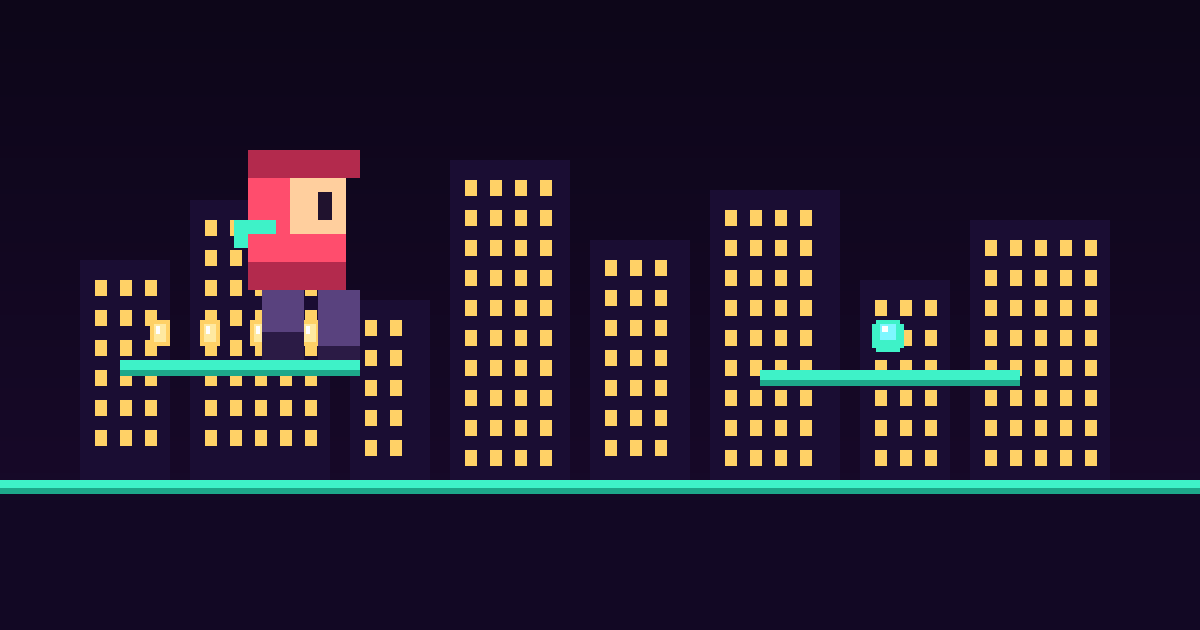
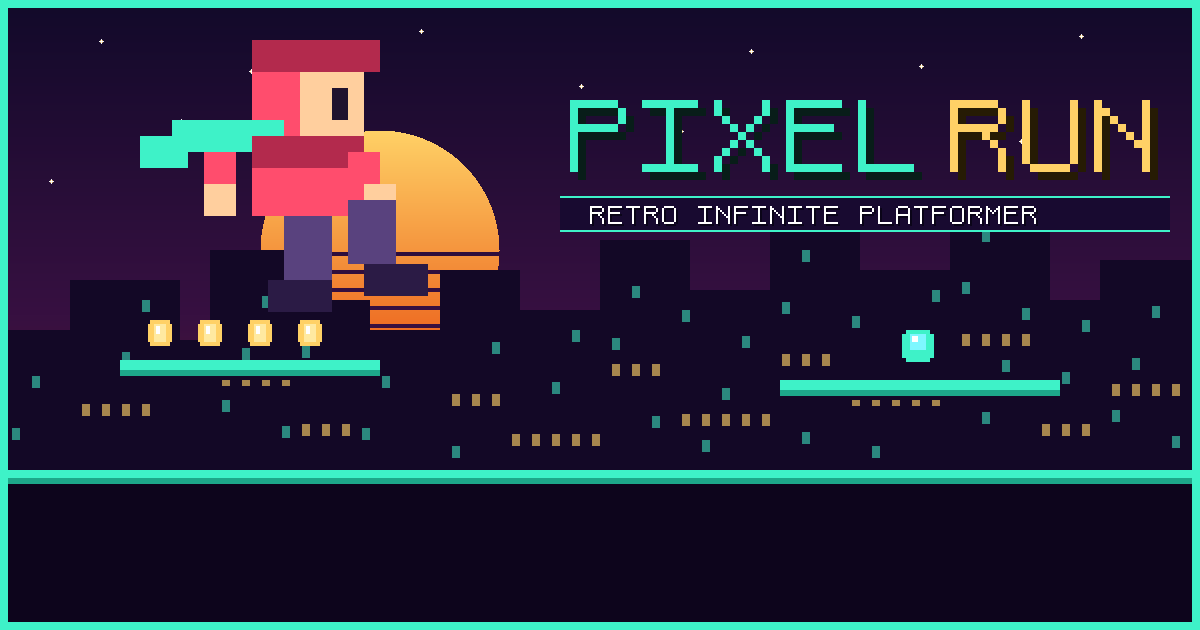
Restore text preview and Discord gem reward

diff --git a/scripts/generate_assets.js b/scripts/generate_assets.js
@@ -156,95 +156,212 @@ function generatePreviewCard() {
     buf[idx + 3] = a;
   }
 
-  function fillRect(x, y, w, h, hex) {
-    const [r, g, b, a] = hexToRgba(hex);
+  function fillRect(x, y, w, h, hex, alpha = 255) {
+    const [r, g, b] = hexToRgba(hex);
     for (let py = Math.floor(y); py < Math.floor(y + h); py++) {
       for (let px = Math.floor(x); px < Math.floor(x + w); px++) {
-        setPixel(px, py, r, g, b, a);
+        if (alpha >= 255) {
+          setPixel(px, py, r, g, b, 255);
+        } else if (px >= 0 && px < W && py >= 0 && py < H) {
+          const idx = (py * W + px) * 4;
+          const blend = alpha / 255;
+          buf[idx] = Math.round(buf[idx] * (1 - blend) + r * blend);
+          buf[idx + 1] = Math.round(buf[idx + 1] * (1 - blend) + g * blend);
+          buf[idx + 2] = Math.round(buf[idx + 2] * (1 - blend) + b * blend);
+          buf[idx + 3] = 255;
+        }
       }
     }
   }
 
-  // Background gradient
+  // Synthwave sunset sky gradient
   for (let y = 0; y < H; y++) {
     const t = y / H;
-    const r = Math.floor(13 + (26 - 13) * t);
-    const g = Math.floor(6 + (10 - 6) * t);
-    const b = Math.floor(25 + (45 - 25) * t);
+    let r;
+    let g;
+    let b;
+    if (t < 0.5) {
+      const st = t / 0.5;
+      r = Math.floor(18 + (55 - 18) * st);
+      g = Math.floor(10 + (16 - 10) * st);
+      b = Math.floor(42 + (65 - 42) * st);
+    } else {
+      const st = (t - 0.5) / 0.5;
+      r = Math.floor(55 + (180 - 55) * st * 0.5);
+      g = Math.floor(16 + (60 - 16) * st * 0.4);
+      b = Math.floor(65 + (35 - 65) * st);
+    }
     for (let x = 0; x < W; x++) {
       setPixel(x, y, r, g, b, 255);
     }
   }
 
-  // Skyline
-  const buildings = [
-    { x: 80,  w: 90,  h: 220 },
-    { x: 190, w: 140, h: 280 },
-    { x: 350, w: 80,  h: 180 },
-    { x: 450, w: 120, h: 320 },
-    { x: 590, w: 100, h: 240 },
-    { x: 710, w: 130, h: 290 },
-    { x: 860, w: 90,  h: 200 },
-    { x: 970, w: 140, h: 260 },
+  // Distant stars
+  const stars = [
+    [100, 40], [250, 70], [420, 30], [580, 85], [750, 50], [920, 65], [1080, 35],
+    [180, 120], [340, 150], [680, 130], [840, 110], [1020, 140], [50, 180],
   ];
+  stars.forEach(([sx, sy]) => {
+    fillRect(sx, sy, 3, 3, '#ffd166', 200);
+    fillRect(sx + 1, sy - 1, 1, 5, '#ffffff', 240);
+    fillRect(sx - 1, sy + 1, 5, 1, '#ffffff', 240);
+  });
+
+  // Segmented synthwave sun
+  const sunX = 380;
+  const sunY = 250;
+  const sunR = 120;
+  for (let dy = -sunR; dy <= sunR; dy++) {
+    const py = sunY + dy;
+    if (py < 0 || py >= H) continue;
+    const dxMax = Math.floor(Math.sqrt(sunR * sunR - dy * dy));
+    const stripe = (dy + sunR) % 18;
+    if (stripe > 13 && dy > 0) continue;
+    const sunT = (dy + sunR) / (2 * sunR);
+    const sr = Math.floor(255 - sunT * 20);
+    const sg = Math.floor(209 - sunT * 120);
+    const sb = Math.floor(102 - sunT * 80);
+    const hex = `#${sr.toString(16).padStart(2, '0')}${sg.toString(16).padStart(2, '0')}${sb.toString(16).padStart(2, '0')}`;
+    fillRect(sunX - dxMax, py, dxMax * 2, 1, hex);
+  }
+
+  // Skyline silhouette
+  const buildings = [
+    { x: 0, w: 90, h: 140 },
+    { x: 70, w: 110, h: 190 },
+    { x: 160, w: 70, h: 130 },
+    { x: 210, w: 90, h: 220 },
+    { x: 290, w: 80, h: 170 },
+    { x: 350, w: 100, h: 140 },
+    { x: 440, w: 80, h: 200 },
+    { x: 500, w: 120, h: 160 },
+    { x: 600, w: 90, h: 230 },
+    { x: 670, w: 110, h: 180 },
+    { x: 770, w: 90, h: 240 },
+    { x: 840, w: 130, h: 200 },
+    { x: 950, w: 100, h: 260 },
+    { x: 1030, w: 90, h: 170 },
+    { x: 1100, w: 100, h: 210 },
+  ];
+  const horizonY = 470;
   buildings.forEach((b) => {
-    fillRect(b.x, 480 - b.h, b.w, b.h, '#1a0d33');
-    for (let wy = 480 - b.h + 20; wy < 460; wy += 30) {
-      for (let wx = b.x + 15; wx < b.x + b.w - 15; wx += 25) {
-        if ((wx + wy) % 5 === 0) {
-          fillRect(wx, wy, 12, 16, '#ffd166');
-        }
+    fillRect(b.x, horizonY - b.h, b.w, b.h, '#130826');
+    for (let wy = horizonY - b.h + 20; wy < horizonY - 20; wy += 26) {
+      for (let wx = b.x + 12; wx < b.x + b.w - 12; wx += 20) {
+        if ((wx * 3 + wy) % 5 === 0) fillRect(wx, wy, 8, 12, '#ffd166', 160);
+        else if ((wx + wy * 2) % 7 === 0) fillRect(wx, wy, 8, 12, '#3ef2c8', 140);
       }
     }
   });
 
-  // Ground Platform Layer (clean in-game platform)
-  fillRect(0, 480, W, 150, '#120824');
-  fillRect(0, 480, W, 8, '#3ef2c8');
-  fillRect(0, 488, W, 6, '#1da88a');
+  // Ground platform and floating islands
+  fillRect(0, horizonY, W, H - horizonY, '#0d051c');
+  fillRect(0, horizonY, W, 8, '#3ef2c8');
+  fillRect(0, horizonY + 8, W, 6, '#1da88a');
 
   // Floating platform left
-  fillRect(120, 360, 240, 10, '#3ef2c8');
-  fillRect(120, 370, 240, 6, '#1da88a');
+  fillRect(120, 360, 260, 10, '#3ef2c8');
+  fillRect(120, 370, 260, 6, '#1da88a');
+  fillRect(120, 376, 260, 4, '#130826');
 
   // Floating platform right
-  fillRect(760, 370, 260, 10, '#3ef2c8');
-  fillRect(760, 380, 260, 6, '#1da88a');
+  fillRect(780, 380, 280, 10, '#3ef2c8');
+  fillRect(780, 390, 280, 6, '#1da88a');
+  fillRect(780, 396, 280, 4, '#130826');
 
-  // Coins
+  // Glowing gold coins on the left platform
   [160, 210, 260, 310].forEach((cx) => {
     fillRect(cx - 10, 320, 20, 26, '#ffd166');
+    fillRect(cx - 12, 324, 24, 18, '#ffd166');
     fillRect(cx - 6, 324, 12, 18, '#ffe9a0');
     fillRect(cx - 4, 326, 4, 8, '#ffffff');
   });
 
-  // Gem
-  const gx = 880, gy = 320;
+  // Gem on the right platform
+  const gx = 910;
+  const gy = 330;
   fillRect(gx - 8, gy + 4, 32, 24, '#3ef2c8');
   fillRect(gx - 4, gy, 24, 32, '#3ef2c8');
   fillRect(gx, gy + 4, 16, 16, '#7ef7ff');
   fillRect(gx + 2, gy + 6, 6, 6, '#ffffff');
 
-  // Draw in-game Bob on the platform (exact in-game sprite, NO outlines)
-  const bobScale = 14;
+  // Bob running in heroic stride
+  const bobScale = 16;
   const bobX = 220;
-  const bobY = 360 - 15 * bobScale;
+  const bobY = 360 - 20 * bobScale;
 
-  function f(x, y, w, h, hex) {
-    fillRect(bobX + x * bobScale, bobY + y * bobScale, w * bobScale, h * bobScale, hex);
+  function bfill(x, y, w, h, col) {
+    fillRect(bobX + x * bobScale, bobY + y * bobScale, w * bobScale, h * bobScale, col);
   }
 
-  f(2, 0, 7, 6, '#ff4d6d');   // SUIT
-  f(2, 0, 8, 2, '#b32a4d');   // SUIT_D
-  f(5, 2, 4, 4, '#ffcf9e');   // Peach face
-  f(7, 3, 1, 2, '#20122e');   // Eye
-  f(1, 5, 3, 2, '#3ef2c8');   // Scarf
-  f(2, 6, 7, 4, '#ff4d6d');   // Torso
-  f(2, 8, 7, 2, '#b32a4d');   // Lower torso
-  f(3, 10, 3, 3, '#59427e');  // Left leg
-  f(3, 13, 3, 2, '#2b1b45');  // Left boot
-  f(7, 10, 3, 4, '#59427e');  // Right leg
-  f(7, 14, 3, 1, '#2b1b45');  // Right boot
+  bfill(2, 0, 7, 6, '#ff4d6d');
+  bfill(5, 2, 4, 4, '#ffcf9e');
+  bfill(2, 0, 8, 2, '#b32a4d');
+  bfill(7, 3, 1, 2, '#20122e');
+  bfill(-3, 5, 4, 2, '#3ef2c8');
+  bfill(-5, 6, 3, 2, '#3ef2c8');
+  bfill(1, 5, 3, 2, '#3ef2c8');
+  bfill(2, 6, 7, 5, '#ff4d6d');
+  bfill(2, 6, 7, 2, '#b32a4d');
+  bfill(8, 7, 2, 3, '#ff4d6d');
+  bfill(9, 9, 2, 2, '#ffcf9e');
+  bfill(-1, 7, 2, 3, '#ff4d6d');
+  bfill(-1, 9, 2, 2, '#ffcf9e');
+  bfill(4, 11, 3, 4, '#59427e');
+  bfill(3, 15, 4, 2, '#2b1b45');
+  bfill(8, 10, 3, 4, '#59427e');
+  bfill(9, 14, 4, 2, '#2b1b45');
+
+  // PIXEL RUN arcade title logo
+  const font7x9 = {
+    P: ['1111110', '1000001', '1000001', '1111110', '1000000', '1000000', '1000000', '1000000', '1000000'],
+    I: ['1111111', '0001000', '0001000', '0001000', '0001000', '0001000', '0001000', '0001000', '1111111'],
+    X: ['1000001', '1000001', '0100010', '0010100', '0001000', '0010100', '0100010', '1000001', '1000001'],
+    E: ['1111111', '1000000', '1000000', '1111110', '1000000', '1000000', '1000000', '1000000', '1111111'],
+    L: ['1000000', '1000000', '1000000', '1000000', '1000000', '1000000', '1000000', '1000000', '1111111'],
+    T: ['1111111', '0001000', '0001000', '0001000', '0001000', '0001000', '0001000', '0001000', '0001000'],
+    O: ['0111110', '1000001', '1000001', '1000001', '1000001', '1000001', '1000001', '1000001', '0111110'],
+    F: ['1111111', '1000000', '1000000', '1111110', '1000000', '1000000', '1000000', '1000000', '1000000'],
+    A: ['0111110', '1000001', '1000001', '1000001', '1111111', '1000001', '1000001', '1000001', '1000001'],
+    M: ['1000001', '1100011', '1010101', '1001001', '1000001', '1000001', '1000001', '1000001', '1000001'],
+    R: ['1111110', '1000001', '1000001', '1111110', '1000100', '1000010', '1000001', '1000001', '1000001'],
+    U: ['1000001', '1000001', '1000001', '1000001', '1000001', '1000001', '1000001', '1000001', '0111110'],
+    N: ['1000001', '1100001', '1010001', '1001001', '1000101', '1000011', '1000001', '1000001', '1000001'],
+    ' ': ['0000000', '0000000', '0000000', '0000000', '0000000', '0000000', '0000000', '0000000', '0000000'],
+  };
+
+  function drawGlyph(ch, gx, gy, sc, color) {
+    const rows = font7x9[ch] || font7x9[' '];
+    rows.forEach((row, r) => {
+      for (let c = 0; c < row.length; c++) {
+        if (row[c] === '1') fillRect(gx + c * sc, gy + r * sc, sc, sc, color);
+      }
+    });
+  }
+
+  function drawWord(text, wx, wy, sc, color, shadowCol) {
+    const gw = 7 * sc + 2 * sc;
+    if (shadowCol) text.split('').forEach((ch, i) => drawGlyph(ch, wx + i * gw + sc, wy + sc, sc, shadowCol));
+    text.split('').forEach((ch, i) => drawGlyph(ch, wx + i * gw, wy, sc, color));
+  }
+
+  const titleScale = 8;
+  const titleX = 570;
+  const titleY = 100;
+  drawWord('PIXEL', titleX, titleY, titleScale, '#3ef2c8', '#081d19');
+  drawWord('RUN', titleX + (5 * 9 * titleScale + 20), titleY, titleScale, '#ffd166', '#261b04');
+
+  const subY = titleY + 9 * titleScale + 30;
+  fillRect(titleX - 10, subY - 6, 610, 36, '#180a30');
+  fillRect(titleX - 10, subY - 6, 610, 2, '#3ef2c8');
+  fillRect(titleX - 10, subY + 28, 610, 2, '#3ef2c8');
+  drawWord('RETRO INFINITE PLATFORMER', titleX + 20, subY + 4, 2, '#ffffff', '#0a0418');
+
+  // Frame borders
+  fillRect(0, 0, W, 8, '#3ef2c8');
+  fillRect(0, H - 8, W, 8, '#3ef2c8');
+  fillRect(0, 0, 8, H, '#3ef2c8');
+  fillRect(W - 8, 0, 8, H, '#3ef2c8');
 
   return createPNG(W, H, buf);
 }

diff --git a/src/game/skins.ts b/src/game/skins.ts
@@ -606,8 +606,9 @@ export function claimDiscordReward(): { unlockedSkins: SkinId[]; updatedStats: L
   const currentStats = loadLifetimeStats();
   if (isDiscordRewardClaimed()) return { unlockedSkins, updatedStats: currentStats, newlyClaimed: false };
 
-  const updatedStats = currentStats;
+  const updatedStats = { ...currentStats, gems: currentStats.gems + 100 };
   const nextUnlocked: SkinId[] = unlockedSkins.includes('gladiator') ? unlockedSkins : [...unlockedSkins, 'gladiator'];
+  saveLifetimeStats(updatedStats);
   saveUnlockedSkins(nextUnlocked);
   try {
     localStorage.setItem(DISCORD_REWARD_KEY, '1');
